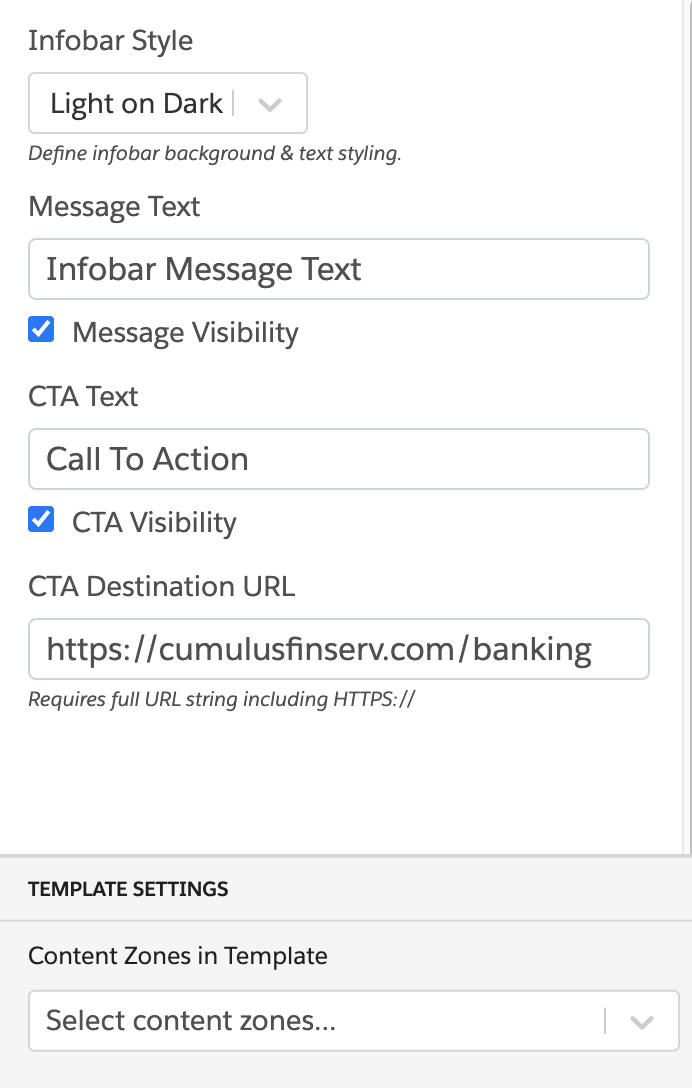
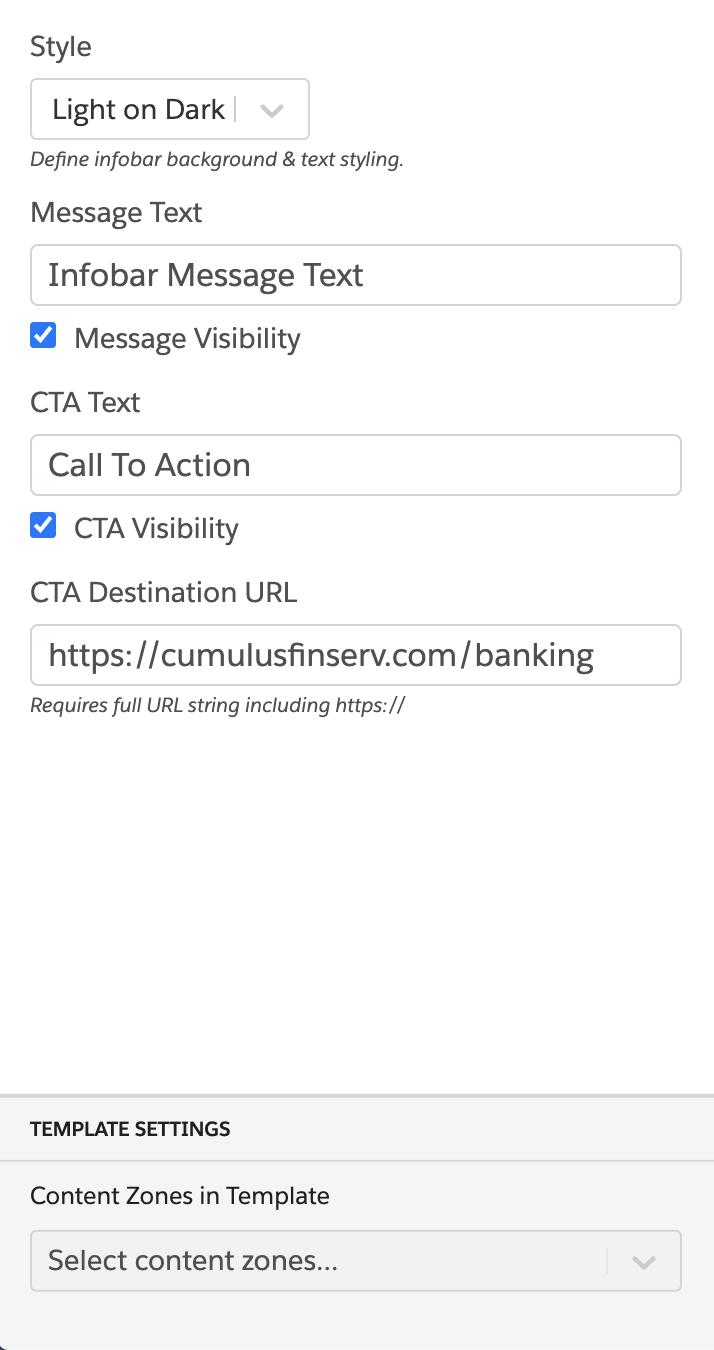
Updates to Infobar With Call-To-Action Template

diff --git a/infobar-with-cta/template.css b/infobar-with-cta/template.css
@@ -2,7 +2,7 @@
    Infobar
 ========================================================================== */
 
-#evg-infobar-cta {
+#evg-infobar-with-cta {
     position: fixed;
     z-index: 10000000;
     left: 0;
@@ -30,7 +30,7 @@
     text-align: center;
 }
 
-#evg-infobar-cta .evg-message {
+#evg-infobar-with-cta .evg-message {
     display: inline-block;
     vertical-align: middle;
     margin-bottom: 0;
@@ -39,11 +39,11 @@
     line-height: 1;
 }
 
-#evg-infobar-cta .evg-infobar {
+#evg-infobar-with-cta .evg-infobar {
     display: inline;
 }
 
-#evg-infobar-cta .evg-btn-dismissal {
+#evg-infobar-with-cta .evg-btn-dismissal {
     position: absolute;
     top: 0;
     right: 0;
@@ -60,11 +60,11 @@
    Infobar Position
 ========================================================================== */
 
-#evg-infobar-cta.evg-infobar-top {
+#evg-infobar-with-cta.evg-infobar-top {
     top: 0;
 }
 
-#evg-infobar-cta.evg-infobar-bottom {
+#evg-infobar-with-cta.evg-infobar-bottom {
     bottom: 0;
 }
 
@@ -72,7 +72,7 @@
    Call-To-Action Link
 ========================================================================== */
 
-#evg-infobar-cta .evg-cta {
+#evg-infobar-with-cta .evg-cta {
     display: inline-block;
     vertical-align: middle;
     margin-left: 10px;
@@ -83,7 +83,7 @@
    Visibility
 ========================================================================== */
 
-#evg-infobar-cta .evg-hide {
+#evg-infobar-with-cta .evg-hide {
     visibility: hidden;
     display: none;
     width: 0;
@@ -94,28 +94,28 @@
    Style
 ========================================================================== */
 
-#evg-infobar-cta.evg-light-on-dark {
+#evg-infobar-with-cta.evg-light-on-dark {
     color: #fff;
     background-color: #343a40;
 }
 
-#evg-infobar-cta.evg-dark-on-light {
+#evg-infobar-with-cta.evg-dark-on-light {
     color: #343a40;
     background-color: #f8f8f8;
 }
 
-#evg-infobar-cta .evg-cta.evg-light-on-dark {
+#evg-infobar-with-cta .evg-cta.evg-light-on-dark {
     color: #6dccee;
 }
 
-#evg-infobar-cta .evg-cta.evg-dark-on-light {
+#evg-infobar-with-cta .evg-cta.evg-dark-on-light {
     color: #17a2b8;
 }
 
-#evg-infobar-cta .evg-btn-dismissal.evg-light-on-dark {
+#evg-infobar-with-cta .evg-btn-dismissal.evg-light-on-dark {
     color: #fff;
 }
 
-#evg-infobar-cta .evg-btn-dismissal.evg-dark-on-light {
+#evg-infobar-with-cta .evg-btn-dismissal.evg-dark-on-light {
     color:#343a40;
 }

diff --git a/infobar-with-cta/client.js b/infobar-with-cta/client.js
@@ -19,11 +19,12 @@
     /**
      * @function setDismissal
      * @param {Object} context
-     * @description Sets the area within the template that removes the template from view upon a dismissal.
+     * @description Adds click listener to the "X" button that removes the template from the DOM.
      */
     function setDismissal(context) {
-        Evergage.cashDom("#evg-infobar-cta .evg-btn-dismissal").on("click", () => {
-            Evergage.cashDom("#evg-infobar-cta").remove();
+        Evergage.cashDom("#evg-infobar-with-cta .evg-btn-dismissal").on("click", () => {
+            Evergage.cashDom(`[data-evg-campaign-id=${context.campaign}][data-evg-experience-id=${context.experience}]`)
+                .remove();
             Evergage.cashDom("body").css({ "margin-top": "0", "margin-bottom": "0" });
         });
     }
@@ -36,7 +37,8 @@
     }
 
     function reset(context, template) {
-        Evergage.cashDom("#evg-infobar-cta").remove();
+        Evergage.cashDom(`[data-evg-campaign-id=${context.campaign}][data-evg-experience-id=${context.experience}]`)
+            .remove();
         Evergage.cashDom("body").css({ "margin-top": "0", "margin-bottom": "0" });
     }
 

diff --git a/infobar-with-cta/template.ts b/infobar-with-cta/template.ts
@@ -3,9 +3,8 @@ export class StyleField {
     className: string;
 }
 
-export class InfobarCtaTemplate implements CampaignTemplateComponent {
+export class InfobarWithCTATemplate implements CampaignTemplateComponent {
 
-    @title('Infobar Style')
     @subtitle("Define infobar background & text styling.")
     @options([
         { label: "Light on Dark", className: "evg-light-on-dark" },
@@ -13,10 +12,8 @@ export class InfobarCtaTemplate implements CampaignTemplateComponent {
     ])
     style: StyleField = { label: "Light on Dark", className: "evg-light-on-dark" };
 
-    @title('Message Text')
     messageText: string = "Infobar Message Text";
 
-    @title('Message Visibility')
     messageVisibility: boolean = true;
 
     @title('CTA Text')
@@ -26,7 +23,7 @@ export class InfobarCtaTemplate implements CampaignTemplateComponent {
     ctaVisibility: boolean = true;
 
     @title('CTA Destination URL')
-    @subtitle("Requires full URL string including HTTPS://")
+    @subtitle("Requires full URL string including https://")
     ctaUrl: string = "https://cumulusfinserv.com/banking";
 
     run(context: CampaignComponentContext) {

diff --git a/infobar-with-cta/README.md b/infobar-with-cta/README.md
@@ -1,8 +1,8 @@
-### Infobar with Call-To-Action
+### Infobar With Call-To-Action
 
 This global template places an infobar containing text and a call-to-action button.
 
-![Infobar with Call to Action](template.png)
+![Infobar With Call-To-Action](template.png)
 
 ### Configuration:
 <img src="config.png" alt="Infobar with Call-To-Action Configuration" width="350px"/>
